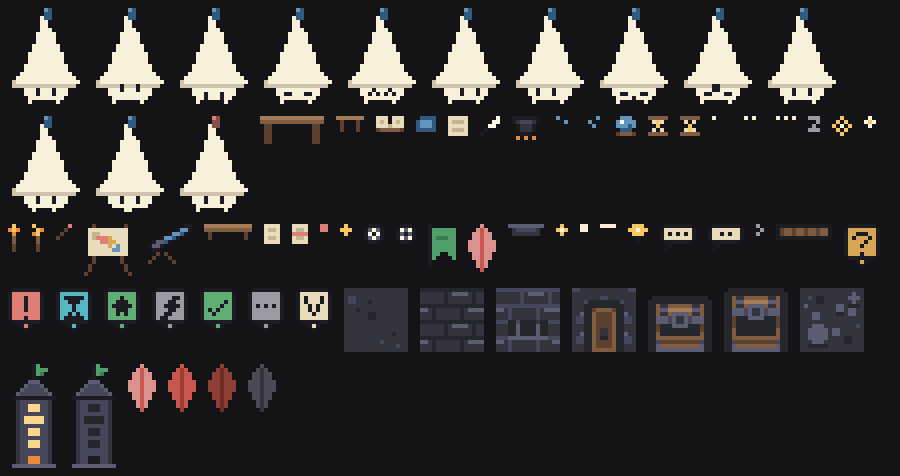
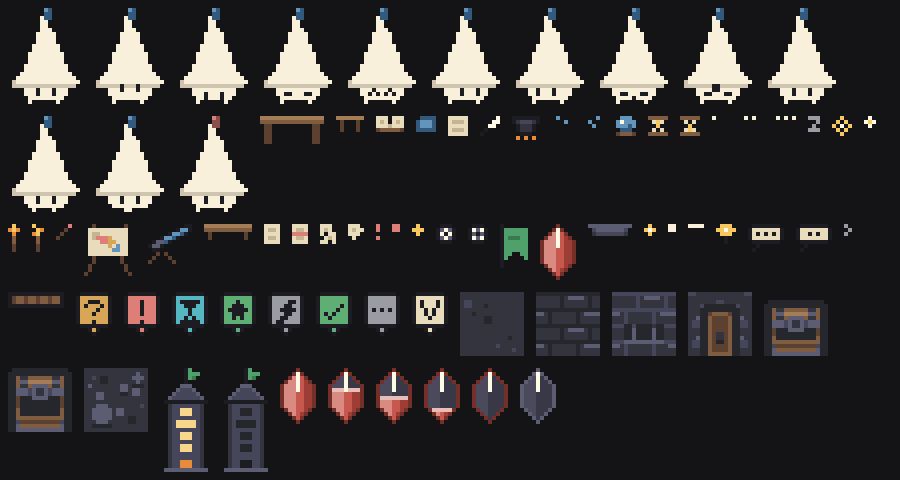
feat(torre): cristal de mana lapidado que enche conforme a mana
O cristal do andar Mana (e o da visão geral) agora é lapidado, com
contorno e facetas na cor da conta. O nível deixa de escurecer a cor:
a mana que resta enche o cristal de baixo pra cima (medida por área,
já que a ponta é estreita), com vidro escuro acima e uma superfície
mais clara no topo. Conta bloqueada/sem leitura segue toda cinza.
Pedestal mais largo e cristal flutuando 1 px quando há mana.

O preview (gerar.mjs) passa a gerar 100/75/50/15/0%.

diff --git a/apps/desktop/torre/arte.js b/apps/desktop/torre/arte.js
@@ -37,6 +37,8 @@ export const PALETA = {
   n: "#5fae74", // pronto (success do DS)
   h: "#9b9ba4", // neutro (muted do DS)
   i: "#56b6c2", // dica (info do DS)
+  j: "#4a4a5c", // vidro do cristal vazio
+  J: "#383846", // vidro sombra
 };
 
 /** Estandartes por projeto (`corDoProjeto` → índice); neutro = torre Geral. */
@@ -61,9 +63,12 @@ export function paletaCom({ gema, estandarte, cristal } = {}) {
   const p = { ...PALETA };
   if (gema) [p.G, p.g] = gema;
   if (estandarte) [p.b, p.B] = estandarte;
-  if (cristal) [p.x, p.X] = cristal;
+  if (cristal) [p.x, p.Y, p.X, p.U, p.Z] = cristal;
   return p;
 }
+
+/** Cristal vazio: as facetas viram vidro (`j`/`J` da paleta). */
+const VIDRO = { x: "j", Y: "J", X: "J" };
 
 export function escurecer(hex, f) {
   const n = parseInt(hex.slice(1), 16);
@@ -74,13 +79,11 @@ export function escurecer(hex, f) {
   return `#${((1 << 24) | (r << 16) | (g << 8) | b).toString(16).slice(1)}`;
 }
 
-/** Cristal apagado (conta no limite / sem leitura): cinza, sem cor de conta. */
-export const CRISTAL_APAGADO = ["#4a4a56", "#34343e"];
+/** Cristal apagado (conta no limite / sem leitura): cinza, sem cor de conta (claro, médio, escuro, contorno, superfície). */
+export const CRISTAL_APAGADO = ["#5c5c6a", "#4a4a56", "#34343e", "#5c5c72", "#71717b"];
 /** Só pra prévia/testes: um cristal em cada nível com a cor da primeira conta. */
 export const CRISTAIS = {
   cheio: cristalDe(0, "cheio"),
-  medio: cristalDe(0, "medio"),
-  pouco: cristalDe(0, "pouco"),
   apagado: CRISTAL_APAGADO,
 };
 
@@ -93,15 +96,13 @@ export function corDaConta(id) {
 }
 
 /**
- * Cristal de mana: a COR é a da conta; o NÍVEL é o brilho — cheio (claro + brilho), médio,
- * pouco (escuro; a tela põe "!" em cima), apagado (cinza; raio cortado em cima).
+ * Cristal de mana: a COR é a da conta (claro, médio, escuro, contorno, superfície da mana); o
+ * NÍVEL não muda a cor, muda o quanto o cristal está cheio (`mascaraDoCristal`). Apagado = cinza.
  */
 export function cristalDe(cor, nivel) {
   if (nivel === "apagado") return CRISTAL_APAGADO;
   const [base, sombra] = ESTANDARTES[((cor % ESTANDARTES.length) + ESTANDARTES.length) % ESTANDARTES.length];
-  if (nivel === "cheio") return [clarear(base, 0.35), base];
-  if (nivel === "medio") return [base, sombra];
-  return [escurecer(base, 0.72), escurecer(sombra, 0.72)];
+  return [clarear(base, 0.3), base, sombra, escurecer(sombra, 0.75), clarear(base, 0.6)];
 }
 
 export function clarear(hex, f) {
@@ -275,21 +276,24 @@ export const PROPS = {
   rolo0: pad([".kkk.", "kqwqk", "kwkwk", "kqwqk", ".kkk."]),
   rolo1: pad([".kkk.", "kwqwk", "kqkqk", "kwqwk", ".kkk."]),
   estandarte: pad(["k", "kbbbbbb", "kbbbbbb", "kbBBBbb", "kbbbbbb", "kbbbbbb", "kbbbbbb", "kbb..bb", "kb....b", "k", "k"]),
+  // lapidado: faceta clara à esquerda (x), aresta de brilho (w), meio (Y), sombra à direita (X)
   cristal: pad([
-    "...x...",
-    "..xXx..",
-    ".xxXxx.",
-    ".xxXxx.",
-    "xxxXxxx",
-    "xxxXxxx",
-    "xxxXxxx",
-    ".xxXxx.",
-    ".xxXxx.",
-    "..xXx..",
-    "..xXx..",
-    "...X...",
+    "....U....",
+    "...UwU...",
+    "..UxwYU..",
+    ".UxxwYXU.",
+    "UxxxwYXXU",
+    "UxxxwYXXU",
+    "UxxxYYXXU",
+    "UxxxYYXXU",
+    "UxxxYYXXU",
+    "UxxxYYXXU",
+    ".UxxYYXU.",
+    "..UxYXU..",
+    "...UYU...",
+    "....U....",
   ]),
-  pedestal: pad(["qqqqqqqqq", ".pPPPPPp.", ".ppppppp."]),
+  pedestal: pad(["qqqqqqqqqqq", ".PqqqqqqqP.", ".pPPPPPPPp."]),
   estrelinha: pad([".F.", "FwF", ".F."]),
   maozinha: pad(["cc", "cc"]),
   dedo: pad(["cccc"]),
@@ -299,6 +303,42 @@ export const PROPS = {
   suspiro: pad(["h.", ".h", "h."]),
   alcapao: pad(["kkkkkkkkkkkkkk", "kdDDdDDdDDdDDk", "kdDDdDDdDDdDDk", "kkkkkkkkkkkkkk"]),
 };
+
+/** Linhas de dentro do cristal (entre a ponta e o fundo de contorno). */
+const CRISTAL_MIOLO = PROPS.cristal.length - 2;
+/** Área acumulada de baixo pra cima: `AREA[n]` = pixels de dentro nas `n` linhas de baixo. */
+const CRISTAL_AREA = PROPS.cristal
+  .slice(1, -1)
+  .reverse()
+  .reduce((acc, l) => [...acc, acc[acc.length - 1] + (l.match(/[xYXw]/g) ?? []).length], [0]);
+
+/**
+ * Quantas linhas de dentro têm mana: `cheio` (0..1) = mana que resta, medida em ÁREA (a ponta de
+ * baixo é estreita; por linha, 15% pareceria vazio).
+ */
+export function linhasDeMana(cheio) {
+  const f = Math.max(0, Math.min(1, Number.isFinite(cheio) ? cheio : 0));
+  const alvo = f * CRISTAL_AREA[CRISTAL_MIOLO];
+  let n = 0;
+  for (let i = 1; i <= CRISTAL_MIOLO; i++) if (Math.abs(CRISTAL_AREA[i] - alvo) < Math.abs(CRISTAL_AREA[n] - alvo)) n = i;
+  // nunca "vazio" com mana sobrando nem "cheio" com mana gasta
+  if (f > 0 && n === 0) return 1;
+  if (f < 1 && n === CRISTAL_MIOLO) return CRISTAL_MIOLO - 1;
+  return n;
+}
+
+/**
+ * Cristal enchendo de baixo pra cima. Acima da mana, vidro escuro; a linha de cima da mana é a
+ * superfície (Z), mais clara. O brilho (w) fica sempre: é o vidro que brilha, não a mana.
+ */
+export function mascaraDoCristal(cheio) {
+  const n = linhasDeMana(cheio);
+  const topo = CRISTAL_MIOLO + 1 - n; // primeira linha com mana
+  return PROPS.cristal.map((l, y) => {
+    if (y < topo) return l.replace(/[xYX]/g, (c) => VIDRO[c]);
+    return y === topo && n < CRISTAL_MIOLO ? l.replace(/[xYX]/g, "Z") : l;
+  });
+}
 
 /* ---------------- ícones de estado (balão com símbolo, nunca só cor) ---------------- */
 

diff --git a/apps/desktop/test/torre-convivio.test.js b/apps/desktop/test/torre-convivio.test.js
@@ -12,7 +12,7 @@ import {
   vizinhos,
 } from "../torre/convivio.js";
 import { POSES, POSES_DE_OCIO, REACOES } from "../torre/poses.js";
-import { CRISTAIS, corDaConta, cristalDe, CRISTAL_APAGADO, mascaraDoMago, MAGO_H } from "../torre/arte.js";
+import { CRISTAIS, corDaConta, cristalDe, CRISTAL_APAGADO, linhasDeMana, mascaraDoCristal, mascaraDoMago, MAGO_H, PROPS } from "../torre/arte.js";
 
 const T0 = 500_000;
 const mago = (chave, estado, extra = {}) => ({ chave, estado, comemorando: false, ...extra });
@@ -137,15 +137,30 @@ describe("convívio", () => {
 });
 
 describe("cores: gema e cristais", () => {
-  it("cristal: cor estável por conta, nível pelo brilho; apagado é cinza", () => {
+  it("cristal: cor estável por conta (não muda com o nível); apagado é cinza", () => {
     expect(corDaConta("2d")).toBe(corDaConta("2D"));
-    const a = cristalDe(corDaConta("2d"), "cheio");
-    const b = cristalDe(corDaConta("2d"), "medio");
-    const c = cristalDe(corDaConta("2d"), "pouco");
-    expect(a).not.toEqual(b);
-    expect(b).not.toEqual(c);
+    expect(cristalDe(corDaConta("2d"), "cheio")).toEqual(cristalDe(corDaConta("2d"), "pouco"));
+    expect(cristalDe(0, "cheio")).not.toEqual(cristalDe(1, "cheio"));
     expect(cristalDe(3, "apagado")).toBe(CRISTAL_APAGADO);
     expect(CRISTAIS.apagado).toBe(CRISTAL_APAGADO);
+  });
+
+  it("cristal enche de baixo pra cima pela área da mana que resta", () => {
+    const comMana = (m) => m.filter((l) => /[xYXZ]/.test(l)).length;
+    const cheio = mascaraDoCristal(1);
+    expect(cheio).toEqual(PROPS.cristal);
+    expect(mascaraDoCristal(0).some((l) => /[xYXZ]/.test(l))).toBe(false);
+    // pouquinho de mana nunca some; quase cheio nunca parece cheio
+    expect(linhasDeMana(0.01)).toBe(1);
+    expect(linhasDeMana(0.99)).toBeLessThan(linhasDeMana(1));
+    // mais mana, mais linhas; a superfície (Z) fica em cima da mana
+    expect(linhasDeMana(0.2)).toBeLessThan(linhasDeMana(0.6));
+    const meio = mascaraDoCristal(0.5);
+    const topo = meio.findIndex((l) => /[xYXZ]/.test(l));
+    expect(meio[topo]).toMatch(/Z/);
+    expect(comMana(meio)).toBe(linhasDeMana(0.5));
+    // por área, metade da mana fica acima da metade das linhas (a ponta de baixo é estreita)
+    expect(linhasDeMana(0.5)).toBeGreaterThan(Math.floor((PROPS.cristal.length - 2) / 2) - 1);
   });
 
   it("mago entrando no chapéu: corte some com o corpo, chapéu fica", () => {

diff --git a/apps/desktop/torre/render.js b/apps/desktop/torre/render.js
@@ -17,7 +17,9 @@ import {
   cristalDe,
   estandarteDe,
   gemaDe,
+  linhasDeMana,
   mascaraDaTorreMini,
+  mascaraDoCristal,
   mascaraDoIcone,
   mascaraDoMago,
   paletaCom,
@@ -178,19 +180,21 @@ function andarMana(p, cena, s, t) {
     const cel = s.contas?.[i];
     if (!cel && i > 0) continue;
     const nivel = nivelDoCristal(cel);
-    props(p, "pedestal", c.x - 1, mana.piso - 3);
-    // a cor é a da conta; o nível é o brilho + ícone (nunca só cor)
+    props(p, "pedestal", c.x - 2, mana.piso - 3);
+    // a cor é a da conta; a mana que resta ENCHE o cristal de baixo pra cima (+ ícone, nunca só cor)
+    const apagado = nivel === "apagado";
     const cor = corDaConta(cel?.id ?? "");
+    const cheio = apagado ? 0 : 1 - (cel?.uso ?? 0);
     const paleta = paletaCom({ cristal: cristalDe(cor, nivel) });
-    const pulso = nivel === "cheio" && Math.floor(t / 900) % 2 ? -1 : 0;
-    p.masc(`cristal:${cor}:${nivel}`, PROPS.cristal, paleta, c.x, mana.piso - 15 + pulso);
+    // flutua 1 px acima do pedestal; com mana, sobe e desce devagar
+    const pulso = !apagado && Math.floor(t / 900) % 2 ? -1 : 0;
+    p.masc(`cristal:${apagado ? "apagado" : cor}:${linhasDeMana(cheio)}`, mascaraDoCristal(cheio), paleta, c.x - 1, mana.piso - 18 + pulso);
     // barrinha da semana no pedestal: o que ainda resta
     const resta = Math.max(0, Math.min(1, 1 - (cel?.semana ?? 1)));
     p.ret(c.x, mana.piso - 2, 7, 1, P.k);
     if (cel && !cel.semDado) p.ret(c.x, mana.piso - 2, Math.round(7 * resta), 1, resta > 0.2 ? P.i : P.y);
-    if (nivel === "cheio" || nivel === "medio") p.ret(c.x + 1, mana.piso - 13 + pulso, 1, 1, P.w);
     const icone = nivel === "pouco" ? "alerta" : nivel === "apagado" && cel && !cel.semDado ? "sem-mana" : "";
-    if (icone) p.masc(`icone:${icone}`, mascaraDoIcone(icone), P, c.x - 1, mana.piso - 28);
+    if (icone) p.masc(`icone:${icone}`, mascaraDoIcone(icone), P, c.x - 1, mana.piso - 30);
   }
   props(p, "banco", cena.banco.x, cena.banco.y);
   props(p, "banco", cena.banco.x + 12, cena.banco.y);

diff --git a/apps/desktop/torre-view.js b/apps/desktop/torre-view.js
@@ -9,7 +9,7 @@
  */
 import { passosLegiveis, tempoCurto } from "./painel-view.js";
 import { escalaPara } from "./torre/cena.js";
-import { PALETA, PROPS, corDaConta, cristalDe, mascaraDoIcone, paletaCom } from "./torre/arte.js";
+import { PALETA, PROPS, corDaConta, cristalDe, linhasDeMana, mascaraDoCristal, mascaraDoIcone, paletaCom } from "./torre/arte.js";
 import { contasDaTorre, textoDoCristal } from "./torre/contas.js";
 import { chaveDoProjeto } from "./torre/feed.js";
 import { torreModelo } from "./torre/modelo.js";
@@ -189,8 +189,11 @@ export function createTorreView({
     if (!ctx) return;
     ctx.clearRect(0, 0, c.width, c.height);
     const nivelC = nivelDoCristal(celula);
-    const paleta = paletaCom({ cristal: cristalDe(corDaConta(celula?.id ?? ""), nivelC) });
-    pintorDeCanvas(ctx, escala).masc(`cristal:${corDaConta(celula?.id ?? "")}:${nivelC}`, PROPS.cristal, paleta, 0, 0);
+    const apagado = nivelC === "apagado";
+    const cor = corDaConta(celula?.id ?? "");
+    const cheio = apagado ? 0 : 1 - (celula?.uso ?? 0);
+    const paleta = paletaCom({ cristal: cristalDe(cor, nivelC) });
+    pintorDeCanvas(ctx, escala).masc(`cristal:${apagado ? "apagado" : cor}:${linhasDeMana(cheio)}`, mascaraDoCristal(cheio), paleta, 0, 0);
   }
 
   function pintarIcone(c, nome, escala) {
@@ -248,7 +251,7 @@ export function createTorreView({
     const ceu = mk("div", "vg-ceu");
     contas.forEach((c) => {
       const w = mk("span", "vg-cristal");
-      const cv = canvasPixel(7, 12, 3);
+      const cv = canvasPixel(PROPS.cristal[0].length, PROPS.cristal.length, 3);
       pintarCristalPequeno(cv, c, 3);
       w.append(cv, mk("b", "", c.nome), mk("i", "", textoDoCristal(c)));
       ceu.append(w);

diff --git a/apps/desktop/torre/cena.js b/apps/desktop/torre/cena.js
@@ -69,7 +69,7 @@ export function cenaDaTorre({ faixas = 1, contas = 0 } = {}) {
   const espacoCristal = Math.min(30, Math.floor((INTERIOR_W - ESCADA_W - 30) / nContas));
   const cristais = Array.from({ length: nContas }, (_, i) => ({
     x: x0 + ESCADA_W + 6 + i * espacoCristal,
-    y: mana.piso - 15,
+    y: mana.piso - 18,
     w: 9,
   }));
 
